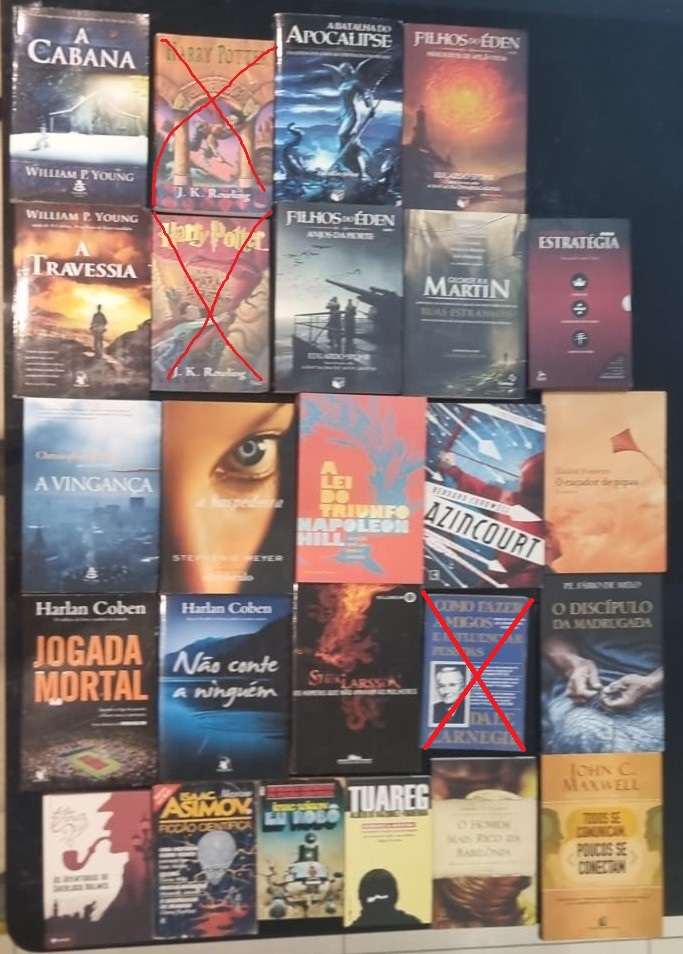
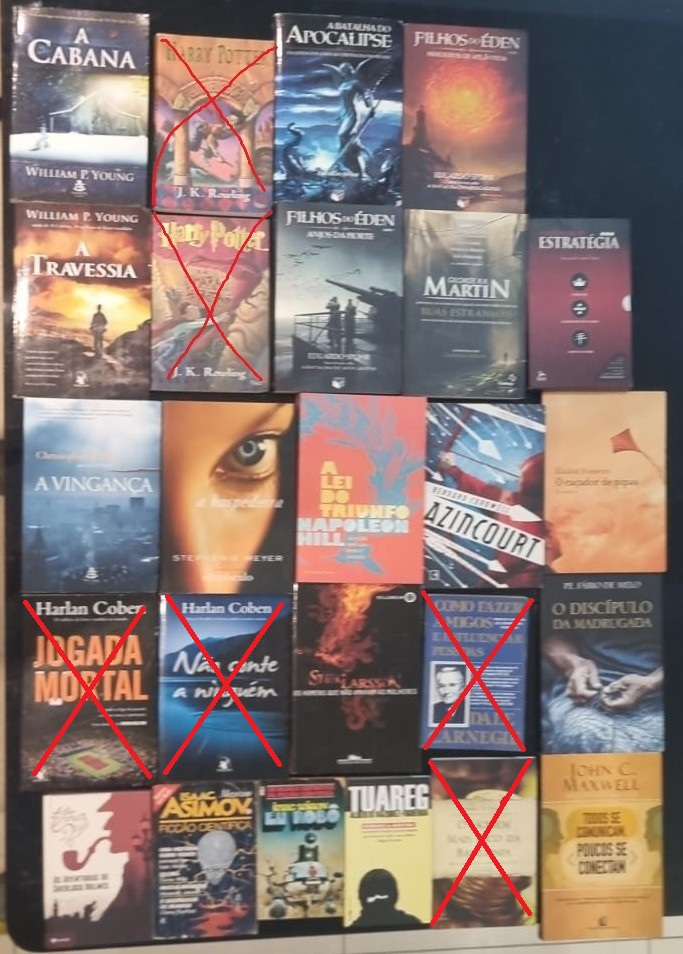
ajuste

diff --git a/dados.js b/dados.js
@@ -97,7 +97,6 @@ const ITEMS = [
         "- Futuropia - 180,00",
         "- Fungi - 90,00",
         "- Bananagrams - 85,00",
-        "- Jaipur - 130,00",
         "- Exploding Kittens - Para Galera - Português - 110,00",
         "- Unstable Unicorns - 90,00"
     ],
@@ -1130,7 +1129,6 @@ const ITEMS = [
         "Ficção Científica - Isaac Asimov",
         "Eu, Robô - Isaac Asimov",
         "Tuareg - Alberto Vázquez-Figueroa",
-        "O Homem mais Rico da Babilônia - George S. Clason",
         "Todos se comunicam, poucos se conectam - John C. Maxwell",
         "Mitologia Nórdica - Neil Gaiman"
     ],
